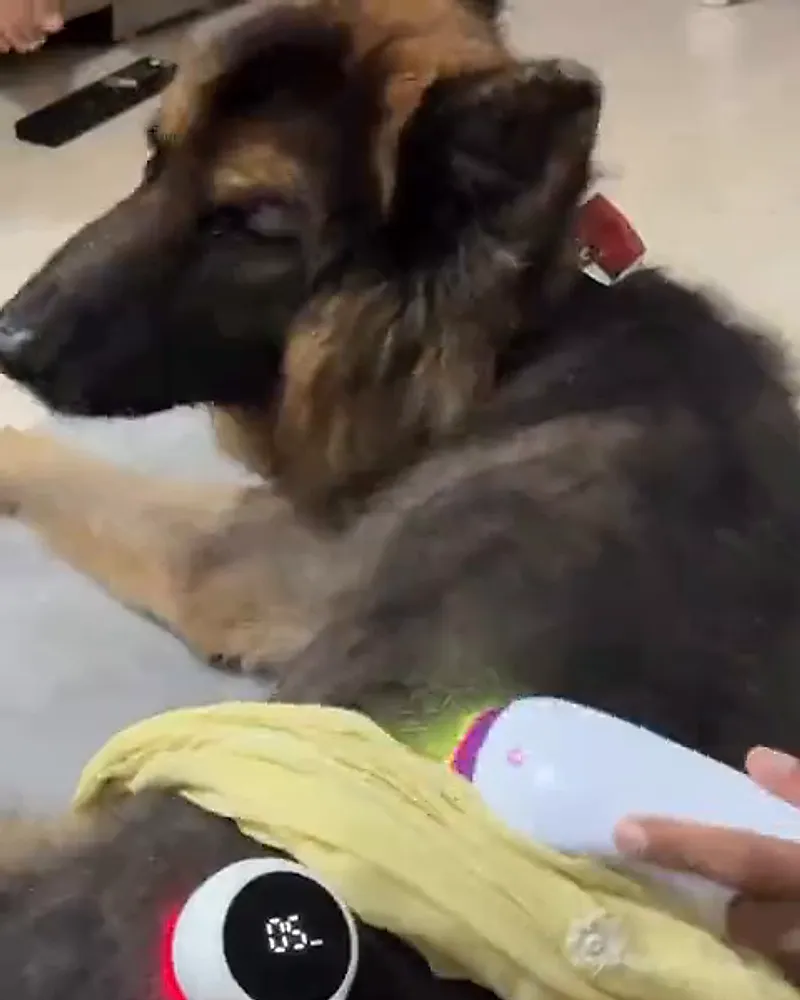
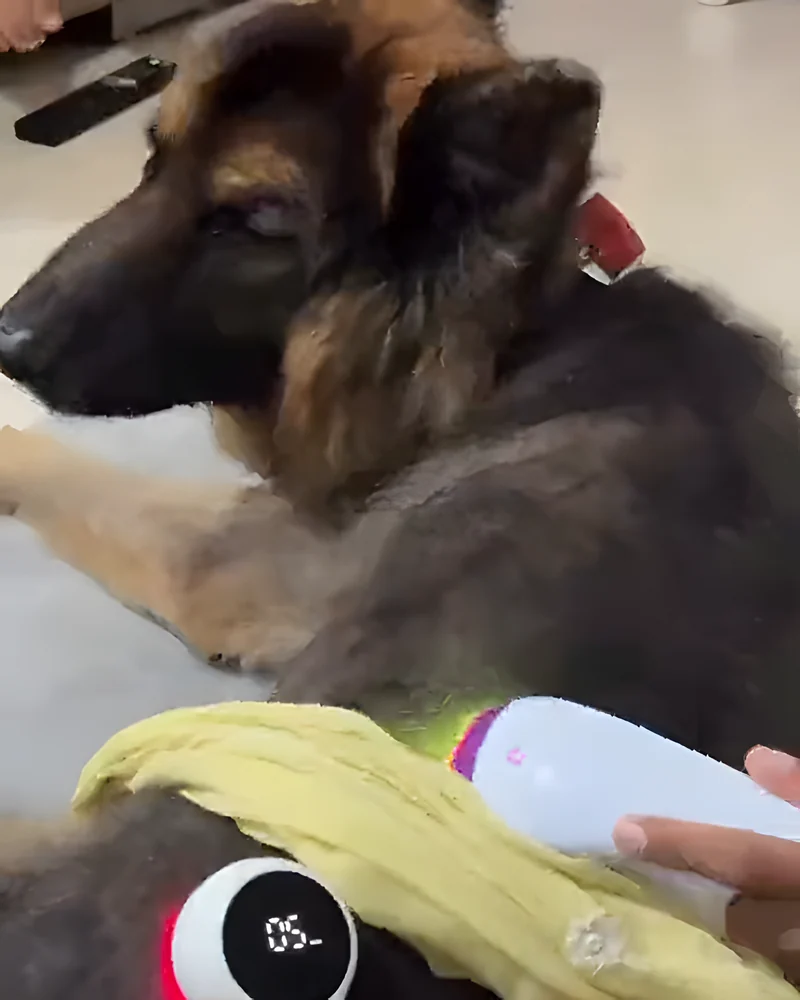
Sharpen soft photos with Real-ESRGAN 4x upscaling
Several images came from low-resolution sources (480px reels, 800-900px
photos) and were being stretched up to ~2.5x in the Services panels,
which looks soft on high-density screens. Upscale them 4x with
Real-ESRGAN (realesrgan-x4plus, BSD-3; run offline, not shipped), then
downscale with Lanczos to web sizes:

  services: electro-physical 1200x1250, manual 1080x1922,
            acupuncture 1200x1200
  clinic-german-shepherd 1200x1600, home-visit-labradors 1400x1052
            (also used in the gallery)
  senior-mobility card 800x1000

diff --git a/landing/src/components/services/ServicesScrolly.tsx b/landing/src/components/services/ServicesScrolly.tsx
@@ -15,11 +15,11 @@ const PHOTO: Record<string, { src: string; alt: string; video?: string; poster?:
     alt: 'Dr. Dhanvi Patel hugging a German Shepherd on the therapy mats at the clinic',
   },
   'manual-therapy': {
-    src: '/photos/services/manual-therapy-v2.webp',
+    src: '/photos/services/manual-therapy-hd.webp',
     alt: 'Dr. Dhanvi Patel giving hands-on treatment to a golden dog at the clinic',
   },
   electrophysical: {
-    src: '/photos/services/electrophysical-v2.webp',
+    src: '/photos/services/electrophysical-hd.webp',
     alt: 'Dr. Dhanvi Patel in laser safety goggles giving Class IV laser therapy to a kitten',
   },
   hydrotherapy: {
@@ -29,7 +29,7 @@ const PHOTO: Record<string, { src: string; alt: string; video?: string; poster?:
     poster: '/videos/hydrotherapy-poster.jpg',
   },
   acupuncture: {
-    src: '/photos/services/acupuncture-v2.webp',
+    src: '/photos/services/acupuncture-hd.webp',
     alt: 'Dr. Dhanvi Patel, Certified Veterinary Acupuncturist, working treatment points along a Labrador',
   },
   'home-care': {

diff --git a/landing/src/components/services/ServicesPanels.tsx b/landing/src/components/services/ServicesPanels.tsx
@@ -24,12 +24,12 @@ const PHOTOS: Record<string, PanelPhoto> = {
     focus: '50% 55%',
   },
   'manual-therapy': {
-    src: '/photos/services/manual-therapy-v2.webp',
+    src: '/photos/services/manual-therapy-hd.webp',
     alt: 'Dr. Dhanvi Patel giving hands-on treatment to a golden dog at the clinic',
     focus: '50% 30%',
   },
   electrophysical: {
-    src: '/photos/services/electrophysical-v2.webp',
+    src: '/photos/services/electrophysical-hd.webp',
     alt: 'Dr. Dhanvi Patel in laser safety goggles giving Class IV laser therapy to a kitten',
     focus: '50% 25%',
   },
@@ -41,7 +41,7 @@ const PHOTOS: Record<string, PanelPhoto> = {
     focus: '50% 40%',
   },
   acupuncture: {
-    src: '/photos/services/acupuncture-v2.webp',
+    src: '/photos/services/acupuncture-hd.webp',
     alt: 'Dr. Dhanvi Patel, Certified Veterinary Acupuncturist, working treatment points along a Labrador',
     focus: '50% 8%',
   },
